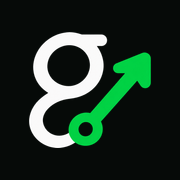
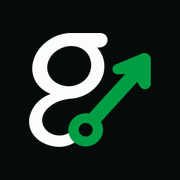
fix: replace brand mark with the corrected green
Rebuild every mark asset from the new source file: the arrow is now the
brand green (#02a147) instead of the neon green the old marks used. The
dark variant is derived from the light one (g flipped to white), and the
app icons, apple-icon, icon.svg images, and favicon.ico are regenerated
with the same framing as before.

The mark files get a -v2 suffix because next/image keys its ETag on the
URL and kept serving 304 for the replaced file.

diff --git a/src/components/brand-logo.tsx b/src/components/brand-logo.tsx
@@ -25,12 +25,14 @@ export function BrandLogo({ priority = false }: { priority?: boolean }) {
 }
 
 /** Square "g" mark, same theme swap as the wordmark. Both assets are 512x512.
+ *  The -v2 suffix is a cache buster: next/image keys its ETag on the URL, so a replaced file
+ *  with the same name is served as 304 to returning browsers. Bump the filename when the asset changes.
  *  Both variants preload: the mark only appears on the splash, where a late image would be visible. */
 export function BrandMark({ size = 64 }: { size?: number }) {
   return (
     <>
       <Image
-        src="/brand/logo-mark-dark.webp"
+        src="/brand/logo-mark-dark-v2.webp"
         alt="g-track"
         width={size}
         height={size}
@@ -38,7 +40,7 @@ export function BrandMark({ size = 64 }: { size?: number }) {
         className="light:hidden"
       />
       <Image
-        src="/brand/logo-mark-light.webp"
+        src="/brand/logo-mark-light-v2.webp"
         alt="g-track"
         width={size}
         height={size}
